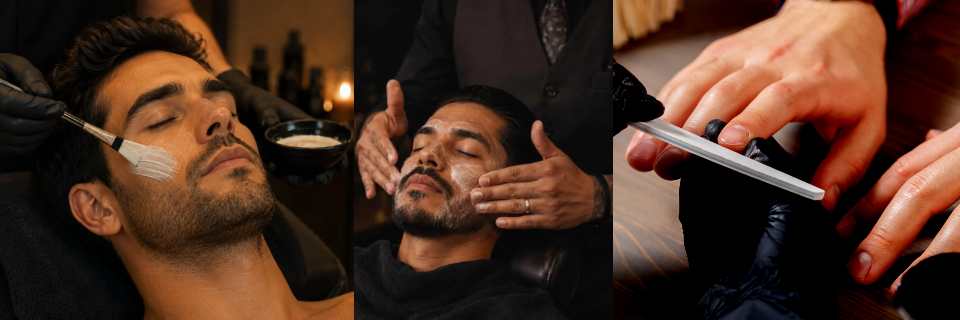
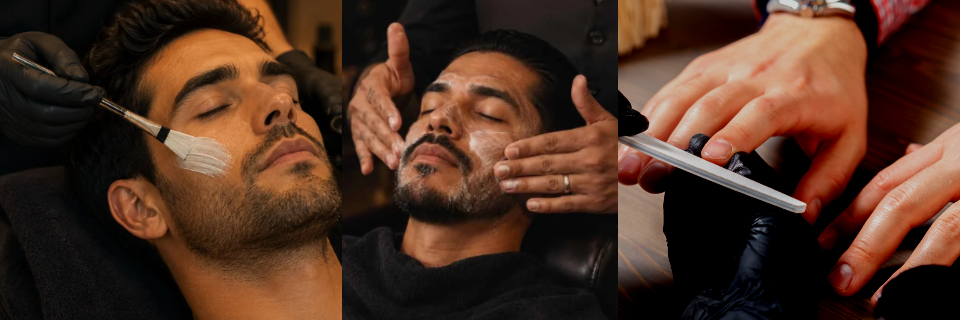
Add files via upload

diff --git a/index.html b/index.html
@@ -326,17 +326,17 @@ h2::after { content:''; flex:1; height:1px; background:linear-gradient(to right,
   inset: 0;
   z-index: 2;
   display: flex;
-  align-items: center;
+  align-items: flex-end;
   justify-content: center;
-  padding: 1.5rem;
+  padding: 1.5rem 1.5rem 1.4rem;
   text-align: center;
   font-family: 'Cormorant Garamond', serif;
   font-style: normal;
   font-weight: 700;
-  font-size: clamp(2rem, 5vw, 3.2rem);
+  font-size: clamp(1.05rem, 2.4vw, 1.45rem);
   line-height: 1.3;
   color: var(--oro);
-  letter-spacing: 0.5px;
+  letter-spacing: 1.5px;
 }
 @media(max-width:700px) {
   .bienvenida-foto { height: 240px; margin-top: 1.5rem; margin-bottom: 0; }
